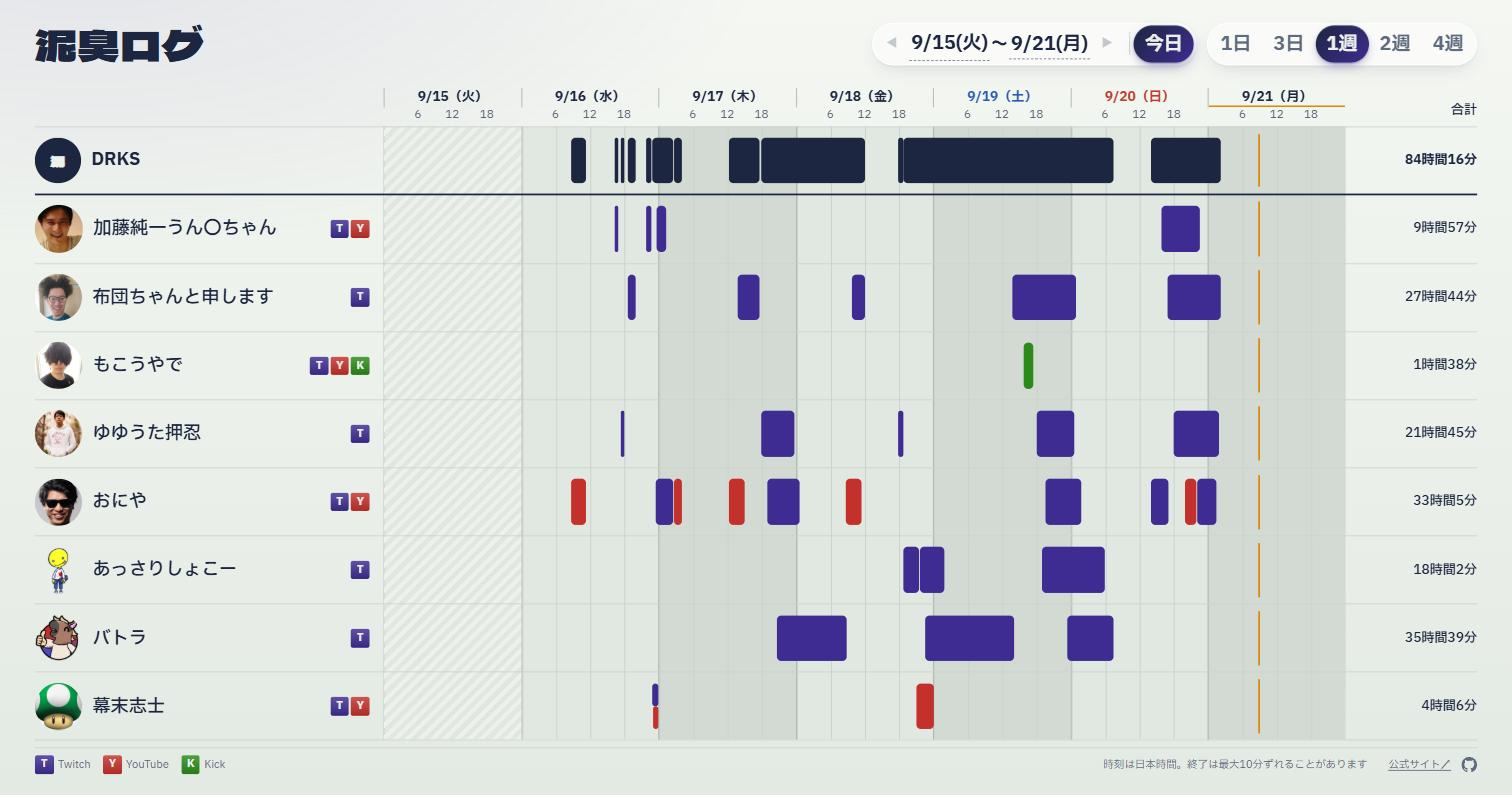
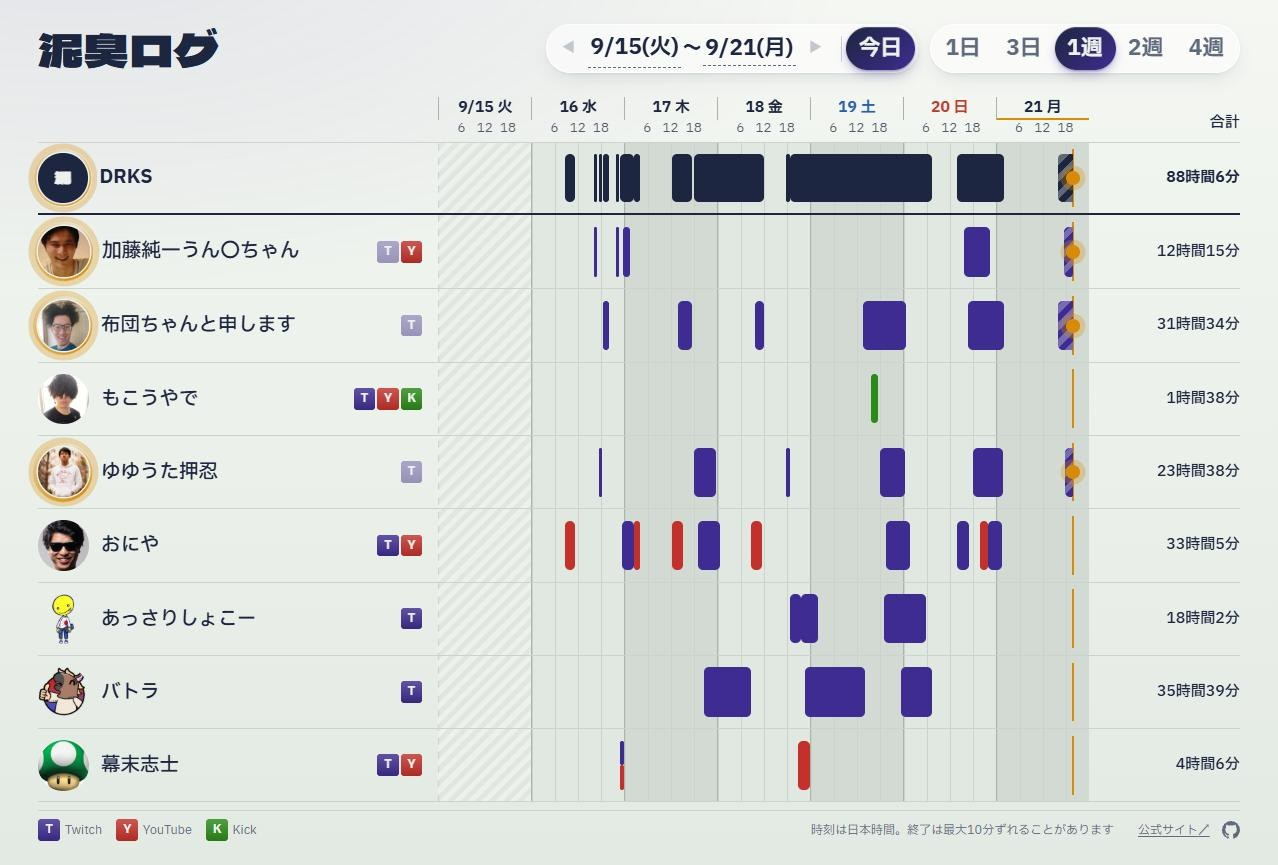
README を概要だけにし、詳細を docs に分ける。キャプチャは配信中の PC 版とスマホ版
- README: 目的・URL・キャプチャ・できること・しくみの要約・docs へのリンク(28行)
- docs/how-it-works.md: 取得と公開の流れ、配信先ごとの取り方、ファイル構成、注意
- docs/config.md: channels.json / manual.json(Kick の取り込み) / settings.json
- docs/setup.md: セットアップとローカル実行
- キャプチャを配信中の状態で撮り直し、スマホ幅の画面も追加

diff --git a/README.md b/README.md
@@ -3,11 +3,11 @@
 配信者チーム DRKS（8人）の配信実績を記録して、1枚のスケジュールボードで見るサイト。
 「24時間、誰か1人は配信しているか」をひと目で確かめるために作った。
 
-**https://kuronekorou39.github.io/DRKS-every-watching/**
+**https://kuronekorou39.github.io/DRKS-every-watching/** ・ DRKS の公式サイト: https://dorokusa.co.jp/
 
-DRKS の公式サイト: https://dorokusa.co.jp/
-
-![泥臭ログの画面](docs/screenshot.jpg)
+| PC | スマホ |
+|---|---|
+| <img src="docs/screenshot.jpg" alt="PC での画面" width="640"> | <img src="docs/screenshot-mobile.jpg" alt="スマホでの画面" width="200"> |
 
 ## できること
 
@@ -17,84 +17,13 @@ DRKS の公式サイト: https://dorokusa.co.jp/
 - 配信中は、バーの縞とアイコンの輪が動く。バーを押すとサムネイル・タイトル・アーカイブへのリンクが出る
 - スマホでも PC の全画面でも、スクロールなしで1画面に収まる
 
-## しくみ
+## しくみ（ひとことで）
 
-サーバーは持たない。GitHub Actions の `collect` が10分おきに各 API から取得して `data` ブランチの
-`history.json` に足し、変化があったときだけ `deploy` を起動して GitHub Pages を公開し直す。
-Actions の cron は混雑で数時間あくことがあるので、`collect` は1回の実行の中で取得を繰り返し（約5時間半）、
-終わる直前に自分で次の実行を起動してつなぐ。cron は、それが切れたときに起こし直す保険。
+サーバーは持たない。GitHub Actions が10分おきに Twitch / YouTube / Kick の API から取得して `data` ブランチに記録し、
+GitHub Pages で公開する。一度記録した配信は、アーカイブが消えても残る。
 
-| 配信先 | 取り方 | 過去の配信 |
-|---|---|---|
-| Twitch | アーカイブで正確な開始・終了を取り、ライブ状態のポーリングで補う | アーカイブが残っている分は初回に埋まる |
-| YouTube | アップロード一覧の新しい50本から、ライブだったものの実際の時刻を取る | その50本に入っている分 |
-| Kick | 配信中かどうかのポーリングだけ（公開 API に過去分がない） | 埋まらない。`manual.json` で足す |
+## ドキュメント
 
-- 一度記録した配信は、アーカイブが消えても残る（サムネイルは消える）
-- `channels.json` の書き間違いでは、記録を書き換えずにエラーで止まる
-- API の不調や Secrets の未設定では、そのプラットフォームだけ飛ばして前回までの記録を残す（Actions に警告が出る）
-
-## 設定ファイル
-
-**`channels.json`** … 記録するチャンネル。表示したい順に1人1件。配信しているものだけ書けばよい。
-
-```json
-[{ "name": "表示名（省略可）", "twitch": "ログイン名", "youtube": "@ハンドル か UC… の ID", "kick": "チャンネル名" }]
-```
-
-**`manual.json`** … API から取れない配信を手で足す。時刻は日本時間で、終わりは `end` か `duration`（`"1h38m"` の形）。
-このファイルが正なので、書き換えたり消したりすれば記録もそうなる。同じ時間帯にポーリングの記録があれば、こちらが優先される。
-
-```json
-[{ "platform": "kick", "channel": "mokoutoaruotoko", "start": "2026-09-19 15:49", "duration": "1h38m", "title": "省略可" }]
-```
-
-Kick の過去分は、ブラウザで `https://kick.com/api/v2/channels/<チャンネル名>/videos` を開いて JSON を保存し、
-`npm run kick-import -- 保存したファイル` で取り込める（同じ配信は入れ直すだけなので、何度やってもよい）。
-
-**`settings.json`** … `recordFrom`（日本時間の日付）より前に始まった配信は記録しない。ボードでは斜線の「記録なし」になる。
-
-```json
-{ "recordFrom": "2026-09-16" }
-```
-
-どれも `main` に push すれば、次の取得（10分以内）から反映される。
-
-## セットアップ（自分のリポジトリで動かす場合）
-
-1. リポジトリを **public** で作る（private だと10分おきの cron で Actions の無料枠を超える）
-2. API の認証情報を用意して、リポジトリの Secrets に入れる（YouTube と Kick は使う場合だけ）
-
-   | Secrets | 取得先 |
-   |---|---|
-   | `TWITCH_CLIENT_ID` / `TWITCH_CLIENT_SECRET` | https://dev.twitch.tv/console/apps でアプリ登録（リダイレクト URL は `http://localhost`、種類は「機密」） |
-   | `YOUTUBE_API_KEY` | Google Cloud Console で「YouTube Data API v3」を有効にして API キーを作る |
-   | `KICK_CLIENT_ID` / `KICK_CLIENT_SECRET` | https://kick.com/settings/developer でアプリを作る |
-
-3. Settings → Pages → Source を「GitHub Actions」にする
-4. `channels.json` を書き換えて push する（`deploy` が走り、止まっていれば `collect` も起動する）
-
-## ローカルで動かす
-
-```powershell
-npm run sample   # ダミーデータを data/history.json に作る
-npm run serve    # http://localhost:8080
-npm test         # 共通ロジックのテスト（Node 20.6 以上）
-
-# 実データを取る場合は .env.example を .env にコピーして値を入れてから
-npm run fetch
-```
-
-| 場所 | 中身 |
-|---|---|
-| `index.html` / `app.mjs` / `style.css` | 画面。ビルドなしの素の HTML・ES Modules・CSS |
-| `lib/core.mjs` | 取得スクリプトと画面で共有するロジック（マージ、区間の結合、日時の整形） |
-| `scripts/fetch.mjs` / `scripts/platforms/` | 取得。プラットフォームごとに1ファイル |
-| `.github/workflows/collect.yml` / `deploy.yml` | 10分おきの取得 / Pages への公開 |
-
-## 注意
-
-- 開始時刻は API の値なので正確。アーカイブが残らない配信は、終了時刻が最大10分ほどずれる
-- YouTube はプレミア公開もライブとして拾うことがある（API で区別できない）
-- 取得の間隔は `collect.yml` の `INTERVAL_SECONDS`。実行の切り替わりで数分あくことがある
-- リポジトリに60日間動きがないと定期実行は自動停止する。止まっていたら Actions タブから再有効化する
+- [しくみ](docs/how-it-works.md) … 取得と公開の流れ、配信先ごとの取り方、ファイルの構成、注意点
+- [設定ファイル](docs/config.md) … 記録するチャンネル、手で足す配信（Kick の過去分の取り込み）、記録を残しはじめる日
+- [セットアップ](docs/setup.md) … 自分のリポジトリで動かす手順、ローカルでの動かし方

diff --git a/docs/how-it-works.md b/docs/how-it-works.md
@@ -1,0 +1,48 @@
+# しくみ
+
+サーバーは持たない。GitHub Actions が各 API から配信状況を取得して `data` ブランチの `history.json` に足し、
+GitHub Pages がそれを静的サイトとして公開する。
+
+## 取得（`collect`）
+
+- 10分おきに取得し、記録に変化があったときだけ `data` ブランチへコミットして、`deploy` を起動する
+- Actions の cron は混雑で数時間あくことがある（実測で 2〜5 時間おき）。そこで1回の実行の中で取得を繰り返し（約5時間半）、
+  終わる直前に自分で次の実行を起動してつなぐ。cron（毎時17分・47分）は、つながりが切れたときに起こし直す保険
+- 取得の間隔は `.github/workflows/collect.yml` の `INTERVAL_SECONDS`
+- 繰り返しの各回で最新の `main` を取り直すので、設定ファイルの変更は次の回（10分以内）から効く
+- 取得が6回つづけて失敗すると、実行を失敗にする（GitHub から通知メールが届く）
+
+| 配信先 | 取り方 | 過去の配信 |
+|---|---|---|
+| Twitch | アーカイブで正確な開始・終了を取り、ライブ状態のポーリングで補う | アーカイブが残っている分は初回に埋まる |
+| YouTube | アップロード一覧の新しい50本から、ライブだったものの実際の時刻を取る | その50本に入っている分 |
+| Kick | 配信中かどうかのポーリングだけ（公開 API に過去分がない） | 埋まらない。[手で足す](config.md#manualjson) |
+
+- 一度記録した配信は、アーカイブが消えても残る（サムネイルは消える）
+- `channels.json` の書き間違いでは、記録を書き換えずにエラーで止まる
+- API の不調や Secrets の未設定では、そのプラットフォームだけ飛ばして前回までの記録を残す（Actions に警告が出る）
+
+## 公開（`deploy`）
+
+`main` への push と、`collect` からの起動で走る。画面のファイルと `data` ブランチの `history.json` を合わせて Pages に公開する。
+push のときはテストも走らせ、`collect` が止まっていれば起こす。
+
+## 画面
+
+ビルドなしの素の HTML・ES Modules・CSS。`history.json` を5分おきに読み直し、現在時刻の線と配信中のバーは1分ごとに進める。
+開きっぱなしで日付が変わると、今日までを表示していた場合に限り、表示範囲を1日進める。
+
+| 場所 | 中身 |
+|---|---|
+| `index.html` / `app.mjs` / `style.css` | 画面 |
+| `lib/core.mjs` | 取得スクリプトと画面で共有するロジック（マージ、区間の結合、日時の整形） |
+| `scripts/fetch.mjs` / `scripts/platforms/` | 取得。プラットフォームごとに1ファイル |
+| `scripts/kick-import.mjs` | Kick の過去の配信を `manual.json` に取り込む |
+| `.github/workflows/collect.yml` / `deploy.yml` | 取得 / 公開 |
+
+## 注意
+
+- 開始時刻は API の値なので正確。アーカイブが残らない配信は、終了時刻が最大10分ほどずれる
+- YouTube はプレミア公開もライブとして拾うことがある（API で区別できない）
+- 実行の切り替わり（約5時間半ごと）で、取得が数分あくことがある
+- リポジトリに60日間動きがないと cron は自動停止する。止まっていたら Actions タブから再有効化する

diff --git a/docs/config.md b/docs/config.md
@@ -1,0 +1,50 @@
+# 設定ファイル
+
+どれも `main` に push すれば、次の取得（10分以内）から反映される。
+
+## channels.json
+
+記録するチャンネル。表示したい順に1人1件。配信しているものだけ書けばよい。
+
+```json
+[{ "name": "表示名（省略可）", "twitch": "ログイン名", "youtube": "@ハンドル か UC… の ID", "kick": "チャンネル名" }]
+```
+
+- `twitch` … twitch.tv/◯◯ の部分
+- `youtube` … youtube.com/@◯◯ の `@◯◯`、または `UC` で始まるチャンネル ID
+- `kick` … kick.com/◯◯ の部分
+- `name` を省くと、最初の配信先の表示名を使う
+
+## manual.json
+
+API から取れない配信を手で足す。時刻は日本時間。`channel` は `channels.json` に書いた値と同じもの。
+
+```json
+[{ "platform": "kick", "channel": "mokoutoaruotoko", "start": "2026-09-19 15:49", "duration": "1h38m", "title": "省略可" }]
+```
+
+- 終わりは `end`（時刻）か `duration`（`"1h38m"` の形の長さ）のどちらかで書く
+- `title` / `game` / `url`（アーカイブのページ）/ `thumb`（サムネイル画像）は省略できる
+- このファイルが正。書き換えたり消したりすれば、記録のほうもそうなる（API から取った記録には影響しない）
+- 同じ時間帯にポーリングで拾った記録があれば、こちらが優先される
+
+### Kick の過去の配信を取り込む
+
+Kick のアーカイブ一覧は Actions からは読めないが、ブラウザなら開ける。
+
+1. ブラウザで `https://kick.com/api/v2/channels/<チャンネル名>/videos` を開き、表示された JSON をファイルに保存する
+2. `npm run kick-import -- 保存したファイル [チャンネル名]`（チャンネル名を省くと、`channels.json` で最初に見つかった kick を使う）
+3. `manual.json` の差分を確かめて commit / push する
+
+同じ配信は入れ直すだけなので、何度やってもよい。配信中のものは取り込まない。
+
+## settings.json
+
+`recordFrom`（日本時間の日付）より前に始まった配信は記録しない。ボードでは、それより前は斜線の「記録なし」になる。
+
+```json
+{ "recordFrom": "2026-09-16" }
+```
+
+API はそれより前のアーカイブも返してくるので、取得のたびにこの日付で落としている。
+日付を前に動かせば、アーカイブが残っている分は次の取得で戻る。

diff --git a/docs/setup.md b/docs/setup.md
@@ -1,0 +1,28 @@
+# セットアップ
+
+## 自分のリポジトリで動かす
+
+1. リポジトリを **public** で作る（取得がほぼ常時走るので、private だと Actions の無料枠を超える）
+2. API の認証情報を用意して、リポジトリの Secrets に入れる（YouTube と Kick は使う場合だけ）
+
+   | Secrets | 取得先 |
+   |---|---|
+   | `TWITCH_CLIENT_ID` / `TWITCH_CLIENT_SECRET` | https://dev.twitch.tv/console/apps でアプリ登録（リダイレクト URL は `http://localhost`、種類は「機密」） |
+   | `YOUTUBE_API_KEY` | Google Cloud Console で「YouTube Data API v3」を有効にして API キーを作る（キーの制限で、この API だけに絞る） |
+   | `KICK_CLIENT_ID` / `KICK_CLIENT_SECRET` | https://kick.com/settings/developer でアプリを作る |
+
+3. Settings → Pages → Source を「GitHub Actions」にする
+4. [`channels.json`](config.md#channelsjson) を書き換えて push する（`deploy` が走り、`collect` も起動する）
+
+動いているかは Actions タブで分かる。`collect` がいつも1本「実行中」になっていれば正常。
+
+## ローカルで動かす
+
+```powershell
+npm run sample   # ダミーデータを data/history.json に作る
+npm run serve    # http://localhost:8080
+npm test         # 共通ロジックのテスト（Node 20.6 以上）
+
+# 実データを取る場合は .env.example を .env にコピーして値を入れてから
+npm run fetch
+```
